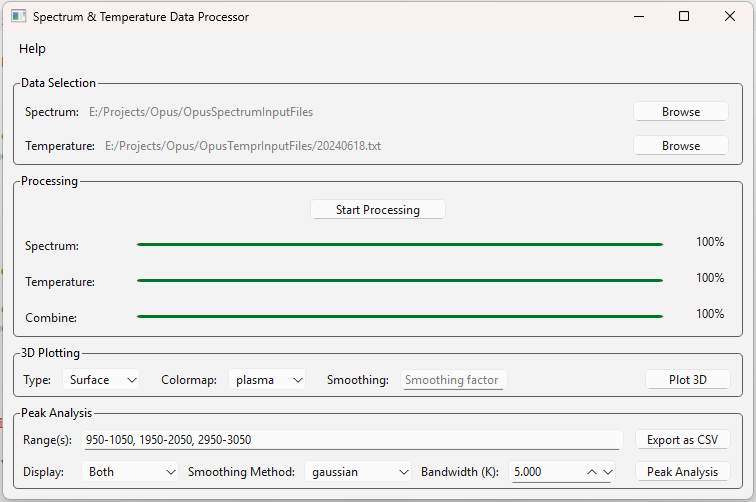
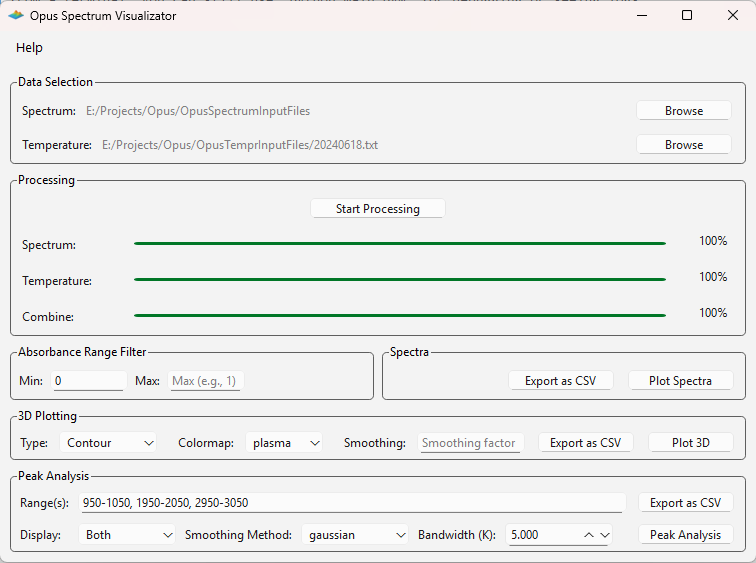
v1.2 release

Changed region(s): [[0.0, 0.0, 1.0, 1.0], [0.1825, 0.3586, 0.8823, 0.4482], [0.1825, 0.4781, 0.8823, 0.508]]

diff --git a/ui/main_window.py b/ui/main_window.py
@@ -474,7 +474,7 @@ class MainWindow(QMainWindow):
                 <li><a href="https://github.com/spectrochempy/spectrochempy">SpectroChemPy</a> (CeCILL-B/C): OPUS file handling and spectroscopic data processing</li>
             </ul>
             <b>Developed by:</b> Dániel Vadon & Dr. Bálint Rubovszky</p>
-            <p><b>Version:</b> 1.1 <a href="https://github.com/vadondaniel/opus-spectrum-visualizator">GitHub</a></p>
+            <p><b>Version:</b> 1.2 <a href="https://github.com/vadondaniel/opus-spectrum-visualizator">GitHub</a></p>
         """)
 
     # === Slots ===

diff --git a/README.md b/README.md
@@ -84,6 +84,10 @@ It will be at `Output/OpusSpectrumVisualizatorInstaller.exe`
 
   <img src="images/main_ui.png" alt="Main UI" width="600">
 
+### Spectral Data Visualization
+
+  <img src="images/spectra_plot.png" alt="3D Surface Plot" width="600">  
+
 ### 3D Visualization
 
   <img src="images/surface_plot.png" alt="3D Surface Plot" width="600">  
